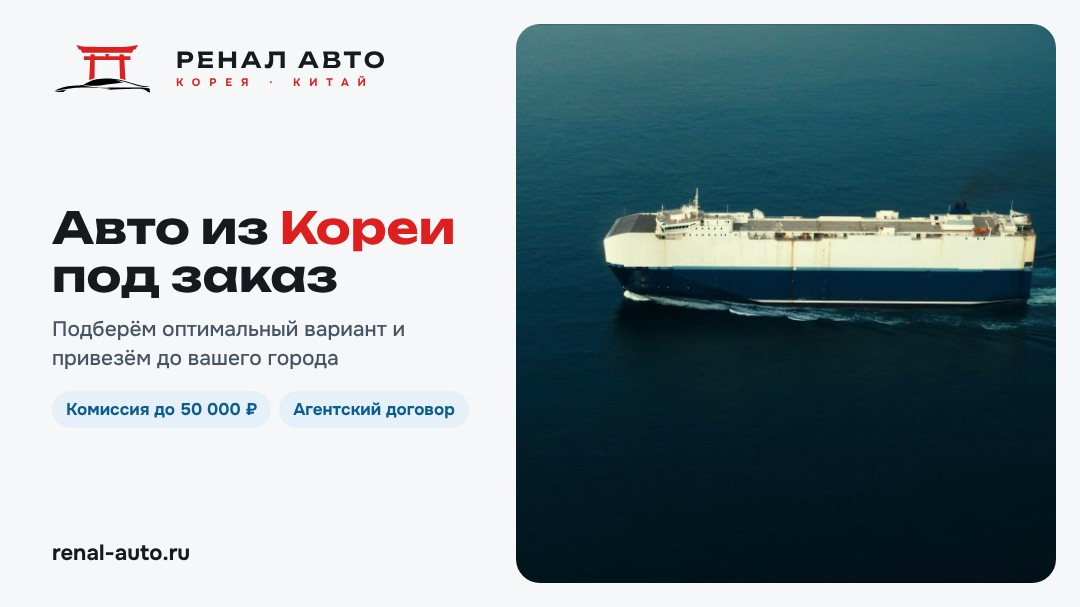
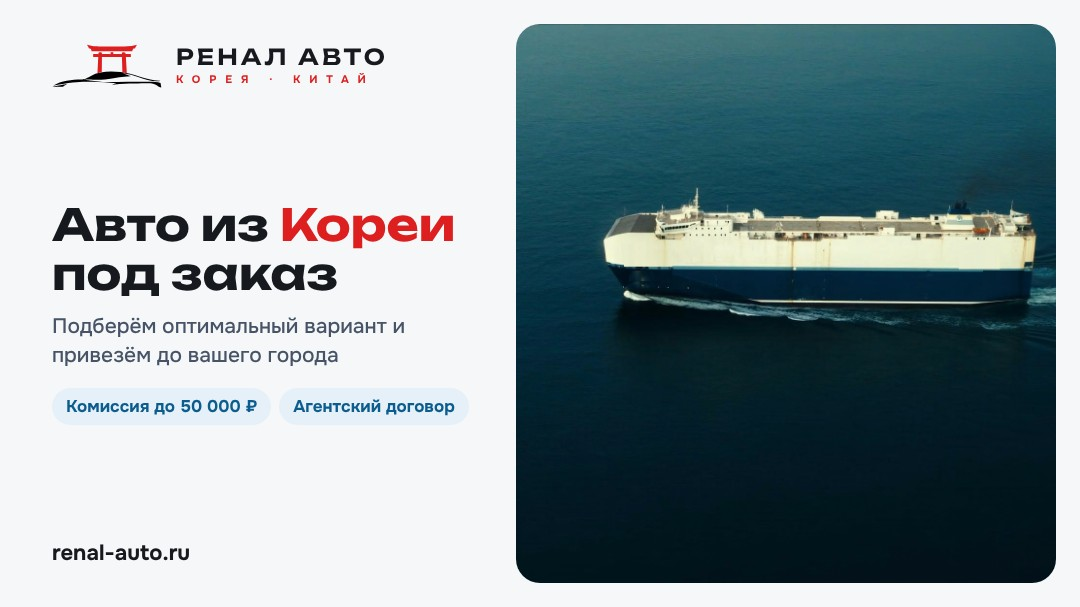
Знак: ворота на 20 % меньше, машина на 12 % больше
Обновлены шапка и подвал, значок вкладки и иконка для телефона, картинка для соцсетей,
баннеры Директа и титры ролика с выдач.

Claude-Session: https://claude.ai/code/session_01VpMdufsLMDxyyWuN5c2SYn

diff --git a/renalauto/static/app.css b/renalauto/static/app.css
@@ -27,7 +27,7 @@ img { max-width: 100%; display: block; }
 .top .wrap { display: flex; align-items: center; gap: 22px; min-height: 64px; flex-wrap: wrap; }
 .logo { display: inline-flex; align-items: center; gap: 10px; color: var(--text); }
 .logo:hover { text-decoration: none; }
-.logo-mark { width: 92px; height: 41px; flex: 0 0 auto; object-fit: contain; }
+.logo-mark { width: 104px; height: 41px; flex: 0 0 auto; object-fit: contain; }
 .logo-mark.on-light, .port-page .top .logo-mark.on-dark { display: none; }
 .port-page .top .logo-mark.on-light { display: block; }
 /* подвал светлый (card): знак с чёрной машиной; в тёмной теме — с белой */
@@ -218,7 +218,7 @@ table.leads th, table.leads td { border-bottom: 1px solid var(--line); padding: 
 @media (max-width: 700px) {
   .top { position: static; }
   .logo-word > span { font-size: 15px; } .logo-word small { font-size: 8px; }
-  .logo-mark { width: 72px; height: 32px; }
+  .logo-mark { width: 81px; height: 32px; }
   .top .wrap { gap: 8px 14px; padding-top: 8px; padding-bottom: 8px; min-height: 0; }
   .top nav { order: 3; flex-basis: 100%; overflow-x: auto; white-space: nowrap; flex-wrap: nowrap; gap: 14px; }
   .top .contacts { margin-left: auto; }
@@ -361,7 +361,7 @@ body.pop-sheet .cta-bar { display: none; }
 .sms-alt { margin: 10px 0 0; text-align: center; }
 .sms-alt a { color: var(--sea); font-weight: 600; }
 .logo-word { white-space: nowrap; }
-@media (max-width: 420px) { .top .logo-word > span { font-size: 13px; } .top .logo-word small { font-size: 7px; } .top .logo-word { gap: 5px; } .top .logo { gap: 8px; } .top .logo-mark { width: 60px; height: 27px; } }
+@media (max-width: 420px) { .top .logo-word > span { font-size: 13px; } .top .logo-word small { font-size: 7px; } .top .logo-word { gap: 5px; } .top .logo { gap: 8px; } .top .logo-mark { width: 68px; height: 27px; } }
 @media (max-width: 700px) { .max-float { display: none; } }
 .port-section { margin: 32px 0 8px; }
 .port-section-head { display: flex; justify-content: space-between; align-items: baseline; gap: 12px; margin-bottom: 12px; }

diff --git a/renalauto/templates/base.html b/renalauto/templates/base.html
@@ -33,8 +33,8 @@ ym({{ ym_id }},"init",{clickmap:true,trackLinks:true,accurateTrackBounce:true,we
 <header class="top">
   <div class="wrap">
     <a class="logo" href="/" aria-label="{{ company }} — на главную">
-      <img class="logo-mark on-dark" src="/static/brand/renal-auto-mark-white.svg" alt="" width="92" height="41">
-      <img class="logo-mark on-light" src="/static/brand/renal-auto-mark.svg" alt="" width="92" height="41">
+      <img class="logo-mark on-dark" src="/static/brand/renal-auto-mark-white.svg" alt="" width="104" height="41">
+      <img class="logo-mark on-light" src="/static/brand/renal-auto-mark.svg" alt="" width="104" height="41">
       <span class="logo-word"><span>{{ company|upper }}</span><small>Корея · Китай</small></span>
     </a>
     <nav>
@@ -60,7 +60,7 @@ ym({{ ym_id }},"init",{clickmap:true,trackLinks:true,accurateTrackBounce:true,we
 <footer>
   <div class="wrap foot">
     <div class="foot-brand">
-      <a class="logo" href="/"><img class="logo-mark on-dark" src="/static/brand/renal-auto-mark-white.svg" alt="" width="92" height="41"><img class="logo-mark on-light" src="/static/brand/renal-auto-mark.svg" alt="" width="92" height="41"><span class="logo-word"><span>{{ company|upper }}</span><small>Корея · Китай</small></span></a>
+      <a class="logo" href="/"><img class="logo-mark on-dark" src="/static/brand/renal-auto-mark-white.svg" alt="" width="104" height="41"><img class="logo-mark on-light" src="/static/brand/renal-auto-mark.svg" alt="" width="104" height="41"><span class="logo-word"><span>{{ company|upper }}</span><small>Корея · Китай</small></span></a>
       <p>Авто из Кореи и Китая под заказ: подбор, проверка, выкуп и доставка до вашего города.</p>
     </div>
     {% block footer_mid %}{% endblock %}
